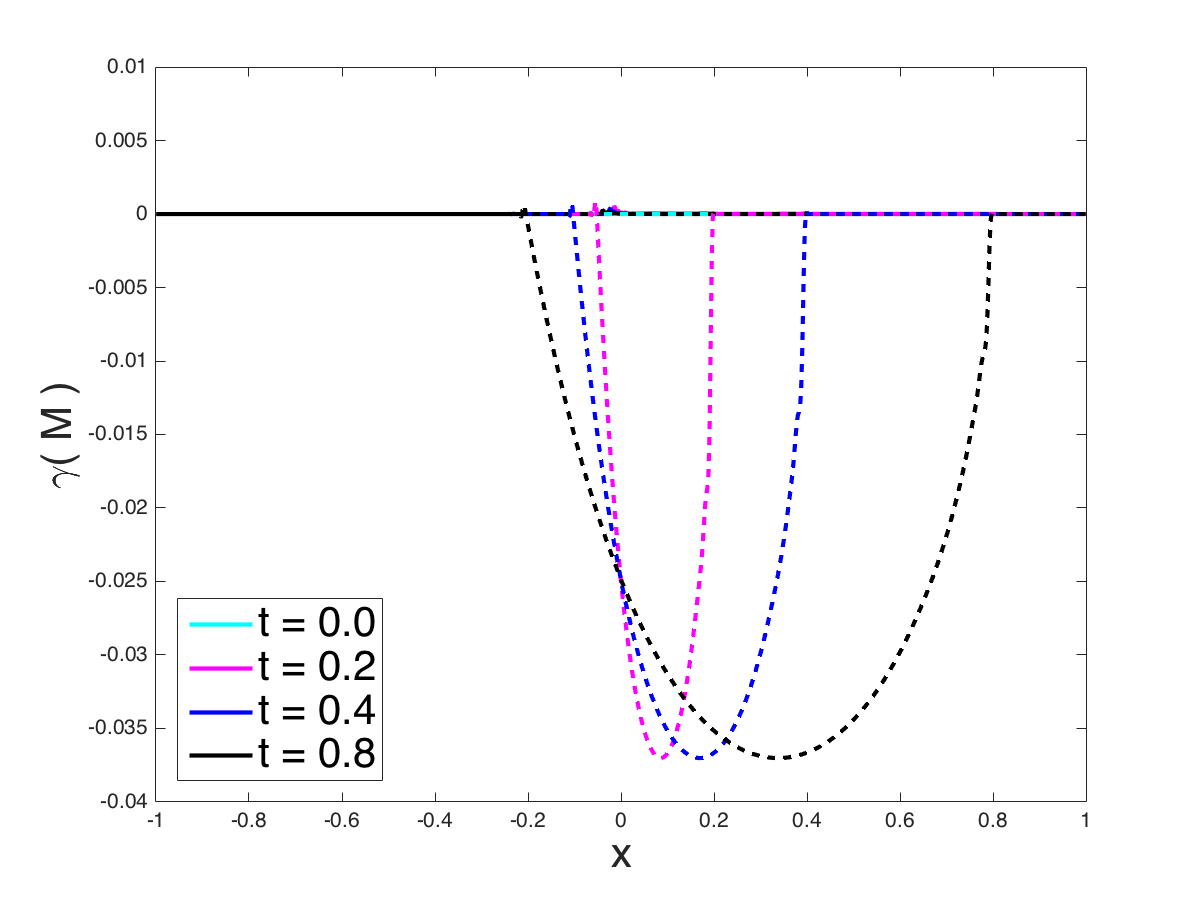
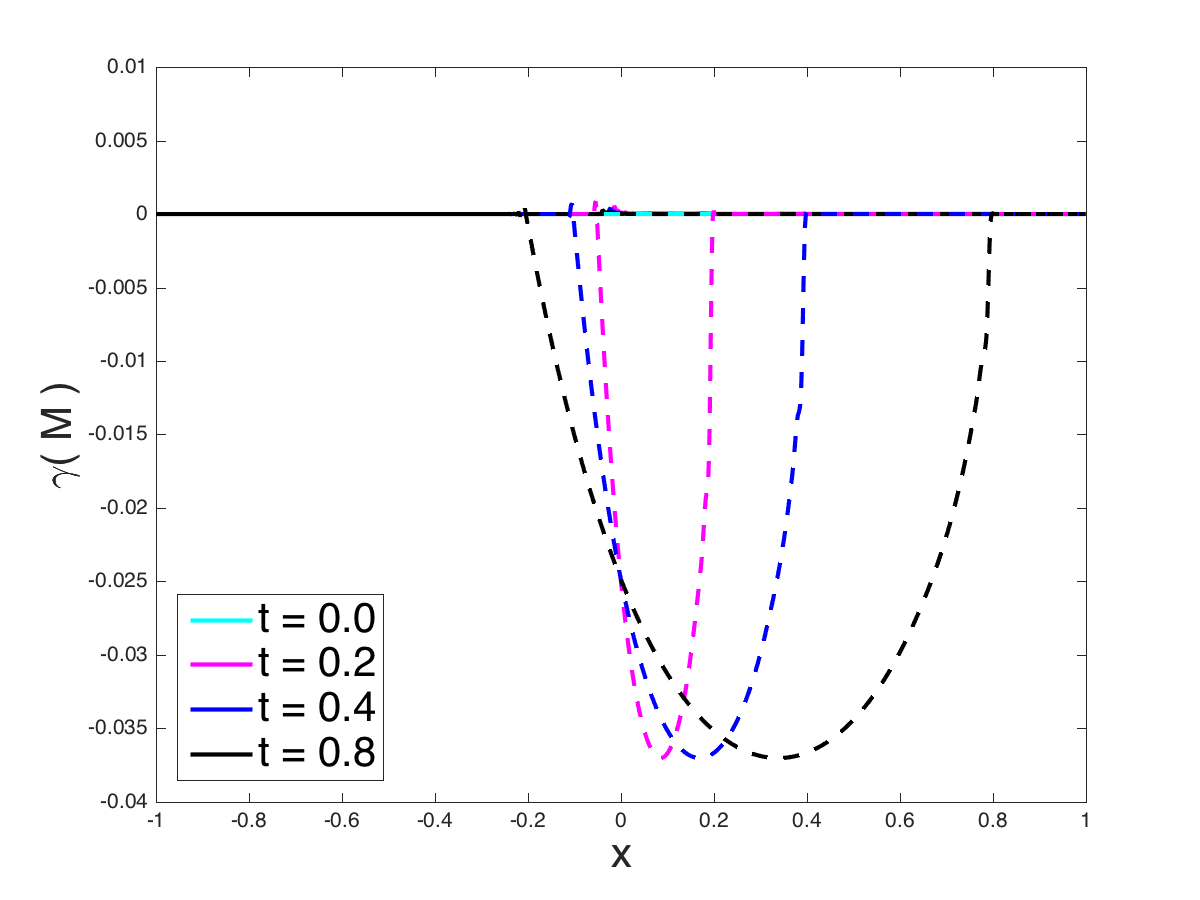
Additional figure for packed beam problem

diff --git a/Documents/M1/realizableFermionicM1/sections/numerical.tex b/Documents/M1/realizableFermionicM1/sections/numerical.tex
@@ -166,8 +166,11 @@ We point out that simply using the realizability-preserving limiter described in
 
 \begin{figure}[h]
   \centering
-  \includegraphics[width=\textwidth]{figures/PackedBeam_Realizability}
-   \caption{Plot of $\gamma(\vect{\cM})=(1-\cJ)\,\cJ-|\vect{\cH}|$ for various times in the packed beam problem: $t=0$ (cyan), $t=0.2$ (magenta), $t=0.4$ (blue), and $t=0.8$ (black).  Results obtained with the CB closure, which remain positive throughout the evolution, are plotted with solid lines, while results obtained with the Minerbo closure are plotted with dashed lines.}
+  \begin{tabular}{cc}
+    \includegraphics[width=0.5\textwidth]{figures/PackedBeam_Realizability}
+    \includegraphics[width=0.5\textwidth]{figures/PackedBeam_RealizableDomain}
+  \end{tabular}
+   \caption{In the left panel, $\gamma(\vect{\cM})=(1-\cJ)\,\cJ-|\vect{\cH}|$ is plotted versus $x$ for various times in the packed beam problem: $t=0$ (cyan), $t=0.2$ (magenta), $t=0.4$ (blue), and $t=0.8$ (black).  Results obtained with the CB closure, which remain positive throughout the evolution, are plotted with solid lines, while results obtained with the Minerbo closure are plotted with dashed lines.  In the right panel, the moments are plotted in $(\cJ,\cH)$-space for the same times as in the left panel.  Results obtained with the CB and Minerbo closures are plotted in blue and magenta, respectively.  The solid black and red lines are contour where $(1-\cJ)\,\cJ=\cH$ and $\cJ=\cH$, respectively.}
   \label{fig:PackedBeam_Realizability}
 \end{figure}
 
